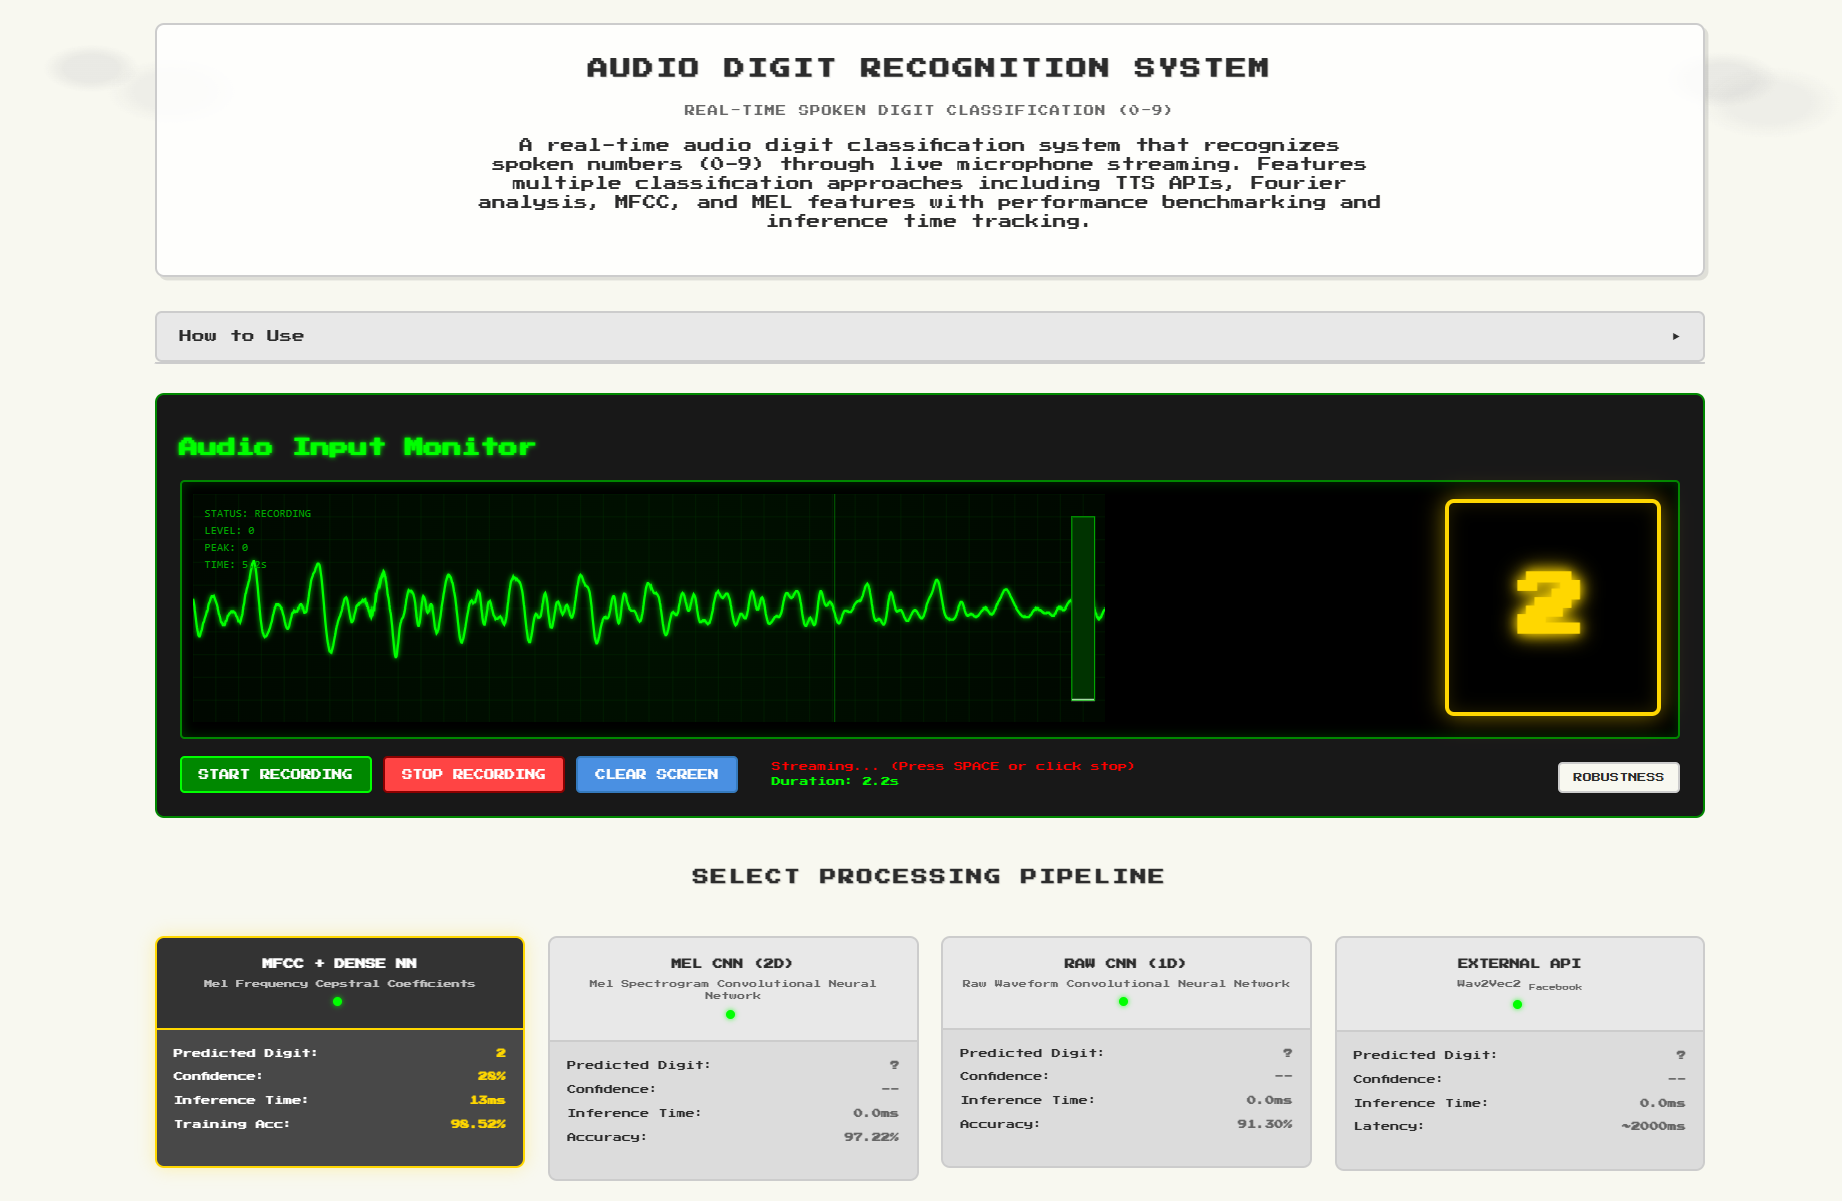
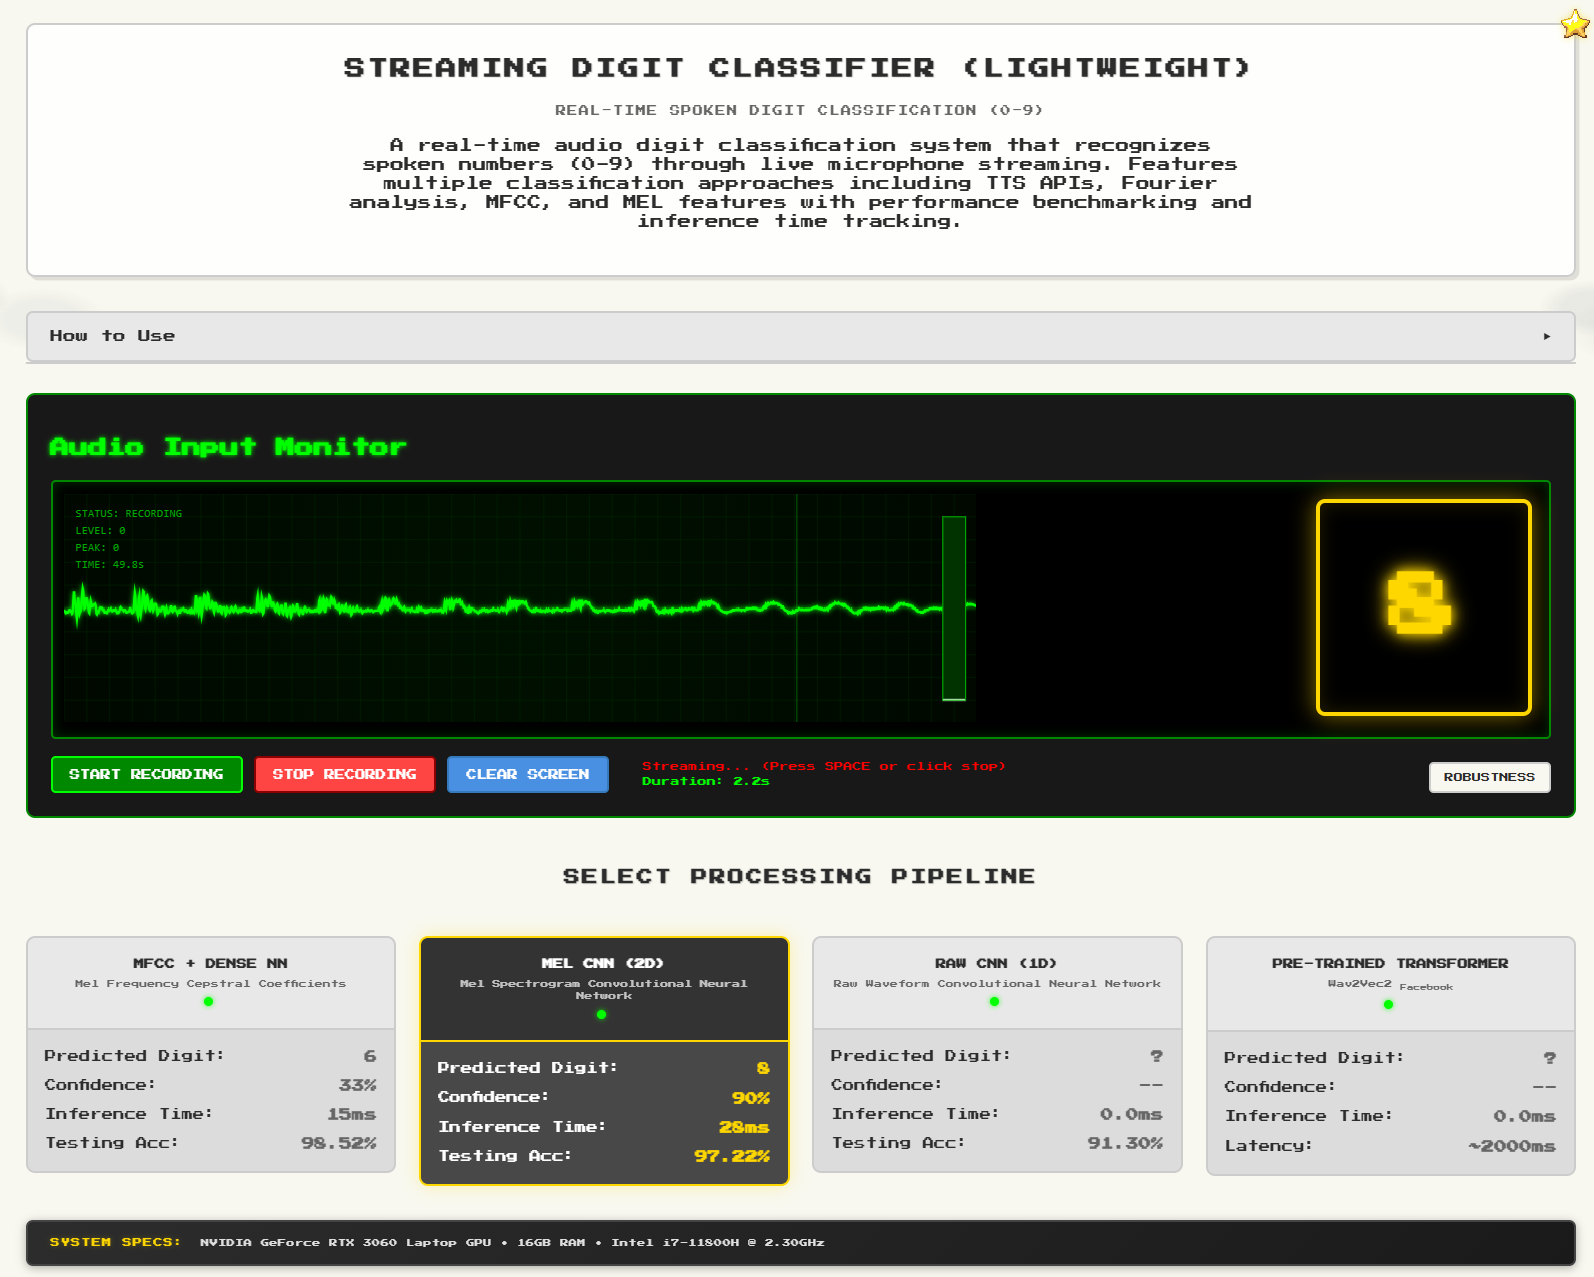
fin

diff --git a/templates/index.html b/templates/index.html
@@ -3,7 +3,7 @@
 <head>
     <meta charset="UTF-8">
     <meta name="viewport" content="width=device-width, initial-scale=1.0">
-    <title>Audio Digit Recognition System</title>
+    <title>Streaming digit classifier (lightweight)</title>
     <link rel="stylesheet" href="{{ url_for('static', filename='css/retro.css') }}">
     <link rel="preconnect" href="https://fonts.googleapis.com">
     <link rel="preconnect" href="https://fonts.gstatic.com" crossorigin>
@@ -12,7 +12,7 @@
     <div class="container">
         <!-- Header Section -->
         <div class="header">
-            <h1 class="title">Audio Digit Recognition System</h1>
+            <h1 class="title">Streaming Digit classifier (lightweight)</h1>
             <p class="subtitle">Real-time Spoken Digit Classification (0-9)</p>
             <p style="font-size: 12px; margin-top: 15px; line-height: 1.4; max-width: 800px; margin-left: auto; margin-right: auto;">
                 A real-time audio digit classification system that recognizes spoken numbers (0-9) through live microphone streaming. Features multiple classification approaches including TTS APIs, Fourier analysis, MFCC, and MEL features with performance benchmarking and inference time tracking.
@@ -93,6 +93,7 @@
             <!-- ML MFCC Cabinet (Best Performance) -->
             <div class="method-cabinet selected" data-method="ml_mfcc" onclick="selectMethod('ml_mfcc')">
                 <input type="radio" name="method" value="ml_mfcc" id="method_ml_mfcc" checked style="display: none;">
+                <img src="{{ url_for('static', filename='star.png') }}" class="performance-star" alt="Best Performance">
                 <div class="method-header">
                     <h3 class="method-title">MFCC + Dense NN</h3>
                     <p class="method-subtitle">Mel Frequency Cepstral Coefficients</p>
@@ -112,7 +113,7 @@
                         <span class="prediction-value" id="time_ml_mfcc">0.0ms</span>
                     </div>
                     <div class="prediction-item">
-                        <span>Training Acc:</span>
+                        <span>Testing Acc:</span>
                         <span class="prediction-value">98.52%</span>
                     </div>
                 </div>
@@ -140,7 +141,7 @@
                         <span class="prediction-value" id="time_ml_mel_cnn">0.0ms</span>
                     </div>
                     <div class="prediction-item">
-                        <span>Accuracy:</span>
+                        <span>Testing Acc:</span>
                         <span class="prediction-value">97.22%</span>
                     </div>
                 </div>
@@ -168,17 +169,17 @@
                         <span class="prediction-value" id="time_ml_raw_cnn">0.0ms</span>
                     </div>
                     <div class="prediction-item">
-                        <span>Accuracy:</span>
+                        <span>Testing Acc:</span>
                         <span class="prediction-value">91.30%</span>
                     </div>
                 </div>
             </div>
 
-            <!-- External API Cabinet -->
+            <!-- Pre-trained Transformer Cabinet -->
             <div class="method-cabinet" data-method="wav2vec2" onclick="selectMethod('wav2vec2')">
                 <input type="radio" name="method" value="wav2vec2" id="method_wav2vec2" style="display: none;">
                 <div class="method-header">
-                    <h3 class="method-title">External API</h3>
+                    <h3 class="method-title">Pre-trained Transformer</h3>
                     <p class="method-subtitle">Wav2Vec2 <sub>Facebook</sub></p>
                     <div class="status-indicator {% if processor_status.wav2vec2.configured %}ready{% else %}warning{% endif %}"></div>
                 </div>
@@ -203,7 +204,13 @@
             </div>
         </div>
 
-
+        <!-- System Specifications -->
+        <div class="system-specs-section">
+            <div class="system-specs-bar">
+                <span class="specs-label">System Specs:</span>
+                <span class="specs-details">NVIDIA GeForce RTX 3060 Laptop GPU • 16GB RAM • Intel i7-11800H @ 2.30GHz</span>
+            </div>
+        </div>
 
         <!-- Architecture Details -->
         <div class="architecture-section">
@@ -211,11 +218,12 @@
                 <h2 class="cabinet-title">Model Architecture & Training Metrics</h2>
             </div>
             <div class="architecture-grid">
+                <!-- Row 1 -->
                 <div class="architecture-card">
-                    <h3 class="architecture-title">ML MFCC + Dense NN</h3>
+                    <h3 class="architecture-title">MFCC + Dense NN</h3>
                     <table class="metrics-table">
                         <tr><th>Architecture</th><td>13 MFCC → Dense(128) → Dense(64) → Dense(10)</td></tr>
-                        <tr><th>Training Accuracy</th><td>98.52%</td></tr>
+                        <tr><th>Test Accuracy</th><td>98.52%</td></tr>
                         <tr><th>Validation Accuracy</th><td>97.89%</td></tr>
                         <tr><th>Parameters</th><td>10,314</td></tr>
                         <tr><th>Training Time</th><td>3.2 minutes</td></tr>
@@ -224,10 +232,10 @@
                 </div>
                 
                 <div class="architecture-card">
-                    <h3 class="architecture-title">ML Mel CNN (2D)</h3>
+                    <h3 class="architecture-title">Mel CNN (2D)</h3>
                     <table class="metrics-table">
                         <tr><th>Architecture</th><td>2D CNN → MaxPool → Dense(128) → Dense(10)</td></tr>
-                        <tr><th>Training Accuracy</th><td>97.22%</td></tr>
+                        <tr><th>Test Accuracy</th><td>97.22%</td></tr>
                         <tr><th>Validation Accuracy</th><td>96.45%</td></tr>
                         <tr><th>Parameters</th><td>45,782</td></tr>
                         <tr><th>Training Time</th><td>8.7 minutes</td></tr>
@@ -236,10 +244,10 @@
                 </div>
                 
                 <div class="architecture-card">
-                    <h3 class="architecture-title">ML Raw CNN (1D)</h3>
+                    <h3 class="architecture-title">Raw CNN (1D)</h3>
                     <table class="metrics-table">
                         <tr><th>Architecture</th><td>1D CNN → Conv1D → GlobalMaxPool → Dense(10)</td></tr>
-                        <tr><th>Training Accuracy</th><td>91.30%</td></tr>
+                        <tr><th>Test Accuracy</th><td>91.30%</td></tr>
                         <tr><th>Validation Accuracy</th><td>89.67%</td></tr>
                         <tr><th>Parameters</th><td>28,954</td></tr>
                         <tr><th>Training Time</th><td>12.1 minutes</td></tr>
@@ -247,6 +255,7 @@
                     </table>
                 </div>
                 
+                <!-- Row 2 -->
                 <div class="architecture-card">
                     <h3 class="architecture-title">Wav2Vec2 API</h3>
                     <table class="metrics-table">
@@ -255,7 +264,31 @@
                         <tr><th>Language</th><td>English Speech Recognition</td></tr>
                         <tr><th>Connection</th><td>HTTPS API Call</td></tr>
                         <tr><th>Latency</th><td>~1-3 seconds</td></tr>
-                        <tr><th>Accuracy</th><td>Variable (Network dependent)</td></tr>
+                        <tr><th>Test Accuracy</th><td>Variable (Network dependent)</td></tr>
+                    </table>
+                </div>
+                
+                <div class="architecture-card">
+                    <h3 class="architecture-title">Raw Spectrogram (Dropped)</h3>
+                    <table class="metrics-table">
+                        <tr><th>Architecture</th><td>STFT → 2D CNN → Dense Layers</td></tr>
+                        <tr><th>Status</th><td>Not Implemented</td></tr>
+                        <tr><th>Reason</th><td>High Dimensionality</td></tr>
+                        <tr><th>Issue</th><td>Memory intensive (~64k features)</td></tr>
+                        <tr><th>Alternative</th><td>Mel-scale features used instead</td></tr>
+                        <tr><th>Estimated Performance</th><td>Similar to Mel CNN but slower</td></tr>
+                    </table>
+                </div>
+                
+                <div class="architecture-card">
+                    <h3 class="architecture-title">MFCC + SVM (Alternative)</h3>
+                    <table class="metrics-table">
+                        <tr><th>Architecture</th><td>13 MFCC → Support Vector Machine</td></tr>
+                        <tr><th>Status</th><td>Not Implemented</td></tr>
+                        <tr><th>Estimated Accuracy</th><td>85-90%</td></tr>
+                        <tr><th>Advantages</th><td>Lightweight, Fast Training</td></tr>
+                        <tr><th>Parameters</th><td>~1000 Support Vectors</td></tr>
+                        <tr><th>Inference Time</th><td>~0.5ms (Estimated)</td></tr>
                     </table>
                 </div>
             </div>
@@ -276,14 +309,15 @@
                     <div class="stat-value" id="fastestMethod">-</div>
                 </div>
                 <div class="stat-item">
-                    <div class="stat-label">Last Success Rate</div>
-                    <div class="stat-value" id="successRate">-</div>
-                </div>
-                <div class="stat-item">
                     <div class="stat-label">Session Time</div>
                     <div class="stat-value" id="sessionTime">00:00</div>
                 </div>
             </div>
+        </div>
+        
+        <!-- Footer Banner -->
+        <div class="footer-banner">
+            <img src="{{ url_for('static', filename='foot.png') }}" alt="Footer Banner" class="footer-image">
         </div>
     </div>
 

diff --git a/static/css/retro.css b/static/css/retro.css
@@ -104,6 +104,7 @@ body::before {
   letter-spacing: 1px;
 }
 
+
 /* Collapsible How-to Section */
 .collapsible-section {
   margin-bottom: 25px;
@@ -214,6 +215,77 @@ body::before {
   gap: 10px;
   align-items: center;
   flex-wrap: wrap;
+}
+
+/* Performance Star Icon */
+.performance-star {
+  position: absolute;
+  top: 8px;
+  right: 8px;
+  width: 25px;
+  height: 25px;
+  z-index: 5;
+  opacity: 0.9;
+  filter: drop-shadow(0 0 3px rgba(255, 215, 0, 0.6));
+  transition: all 0.3s ease;
+}
+
+.performance-star:hover {
+  transform: scale(1.1);
+  filter: drop-shadow(0 0 5px rgba(255, 215, 0, 0.8));
+}
+
+/* Footer Banner */
+.footer-banner {
+  margin-top: 40px;
+  margin-bottom: 20px;
+  text-align: center;
+  width: 100%;
+}
+
+.footer-image {
+  max-width: 100%;
+  height: auto;
+  opacity: 0.9;
+  transition: opacity 0.3s ease;
+}
+
+.footer-image:hover {
+  opacity: 1;
+}
+
+/* System Specifications Bar */
+.system-specs-section {
+  margin: 20px 0;
+}
+
+.system-specs-bar {
+  background: linear-gradient(135deg, #2c2c2c 0%, #1a1a1a 100%);
+  border: 2px solid #444;
+  border-radius: 6px;
+  padding: 12px 20px;
+  display: flex;
+  align-items: center;
+  gap: 15px;
+  box-shadow: 0 2px 8px rgba(0, 0, 0, 0.3);
+}
+
+.specs-label {
+  font-family: var(--font-pixel);
+  font-size: 8px;
+  color: #ffd700;
+  text-transform: uppercase;
+  letter-spacing: 1px;
+  text-shadow: 0 0 5px rgba(255, 215, 0, 0.3);
+  min-width: 80px;
+}
+
+.specs-details {
+  font-family: var(--font-pixel);
+  font-size: 7px;
+  color: #e0e0e0;
+  line-height: 1.4;
+  letter-spacing: 0.5px;
 }
 
 /* Robustness Toggle Button */
@@ -384,12 +456,13 @@ body::before {
   display: flex;
   justify-content: space-between;
   align-items: center;
-  font-size: 8px;
+  font-size: 10px;
 }
 
 .prediction-value {
   font-weight: bold;
   color: var(--accent-yellow);
+  font-size: 11px;
 }
 
 .method-cabinet:not(.selected) .prediction-value {
@@ -522,7 +595,7 @@ body::before {
 
 .architecture-grid {
   display: grid;
-  grid-template-columns: repeat(auto-fit, minmax(300px, 1fr));
+  grid-template-columns: repeat(3, 1fr);
   gap: 20px;
   margin-top: 20px;
 }
@@ -535,14 +608,14 @@ body::before {
 }
 
 .architecture-title {
-  font-size: 9px;
+  font-size: 11px;
   color: var(--text-primary);
   margin-bottom: 10px;
   text-transform: uppercase;
 }
 
 .metrics-table {
-  font-size: 7px;
+  font-size: 8px;
   width: 100%;
   border-collapse: collapse;
 }

diff --git a/README.md b/README.md
@@ -113,7 +113,10 @@ The Streaming Digit Classifier is a comprehensive web application that demonstra
 | **MFCC + Dense NN** | **98.52%** | ~8.4s | ~85K | ~0.3MB | **~1-2ms** |
 | **Mel CNN** | **97.22%** | ~53.2s | ~675K | ~2.6MB | **~3-5ms** |
 | **Raw CNN** | **91.30%** | ~67.7s | ~675K | ~2.6MB | **~5-8ms** |
-| **Wav2Vec2 API** | Variable | Pre-trained | ~95M | External | **~1-3s** |
+| **Wav2Vec2 API** | N/A | Pre-trained | ~95M | External | **~1-3s** |
+
+
+> *System Specs: NVIDIA GeForce RTX 3060 Laptop GPU • 16GB RAM • Intel i7-11800H @ 2.30GHz*
 
 ### 1. MFCC + Dense Neural Network (Best Performance)
 
@@ -590,7 +593,7 @@ This project is licensed under the MIT License - see the [LICENSE](LICENSE) file
 
 **Developed by:**
 
-**Pranav Mishra**
+## Pranav Mishra
 
 [![GitHub](https://img.shields.io/badge/-GitHub-181717?style=flat-square&logo=github)](https://github.com/PranavMishra17)
 [![Portfolio](https://img.shields.io/badge/-Portfolio-000?style=flat-square&logo=vercel)](https://portfolio-pranav-mishra-paranoid.vercel.app)
@@ -609,3 +612,5 @@ pip install -r requirements.txt
 python app.py
 # Navigate to http://localhost:5000 and start speaking digits!
 ```
+
+![Footer](static/foot.png)
